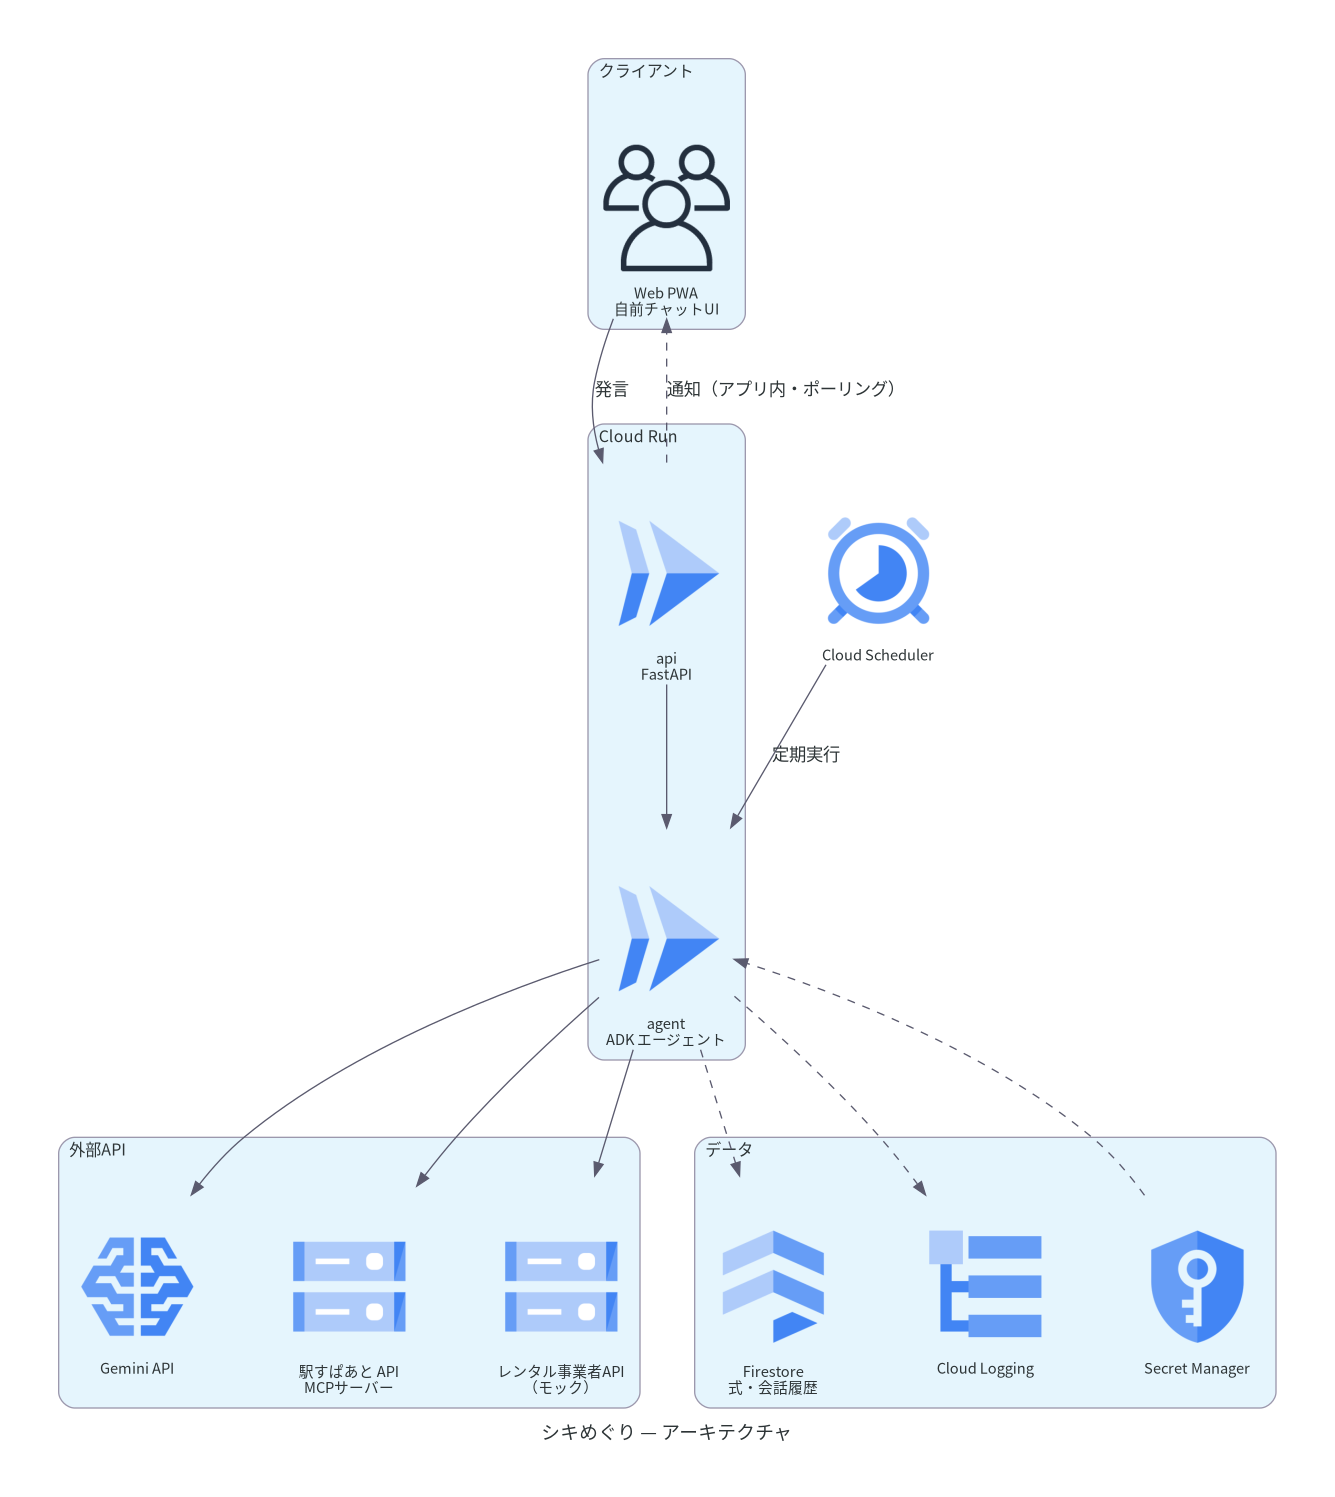
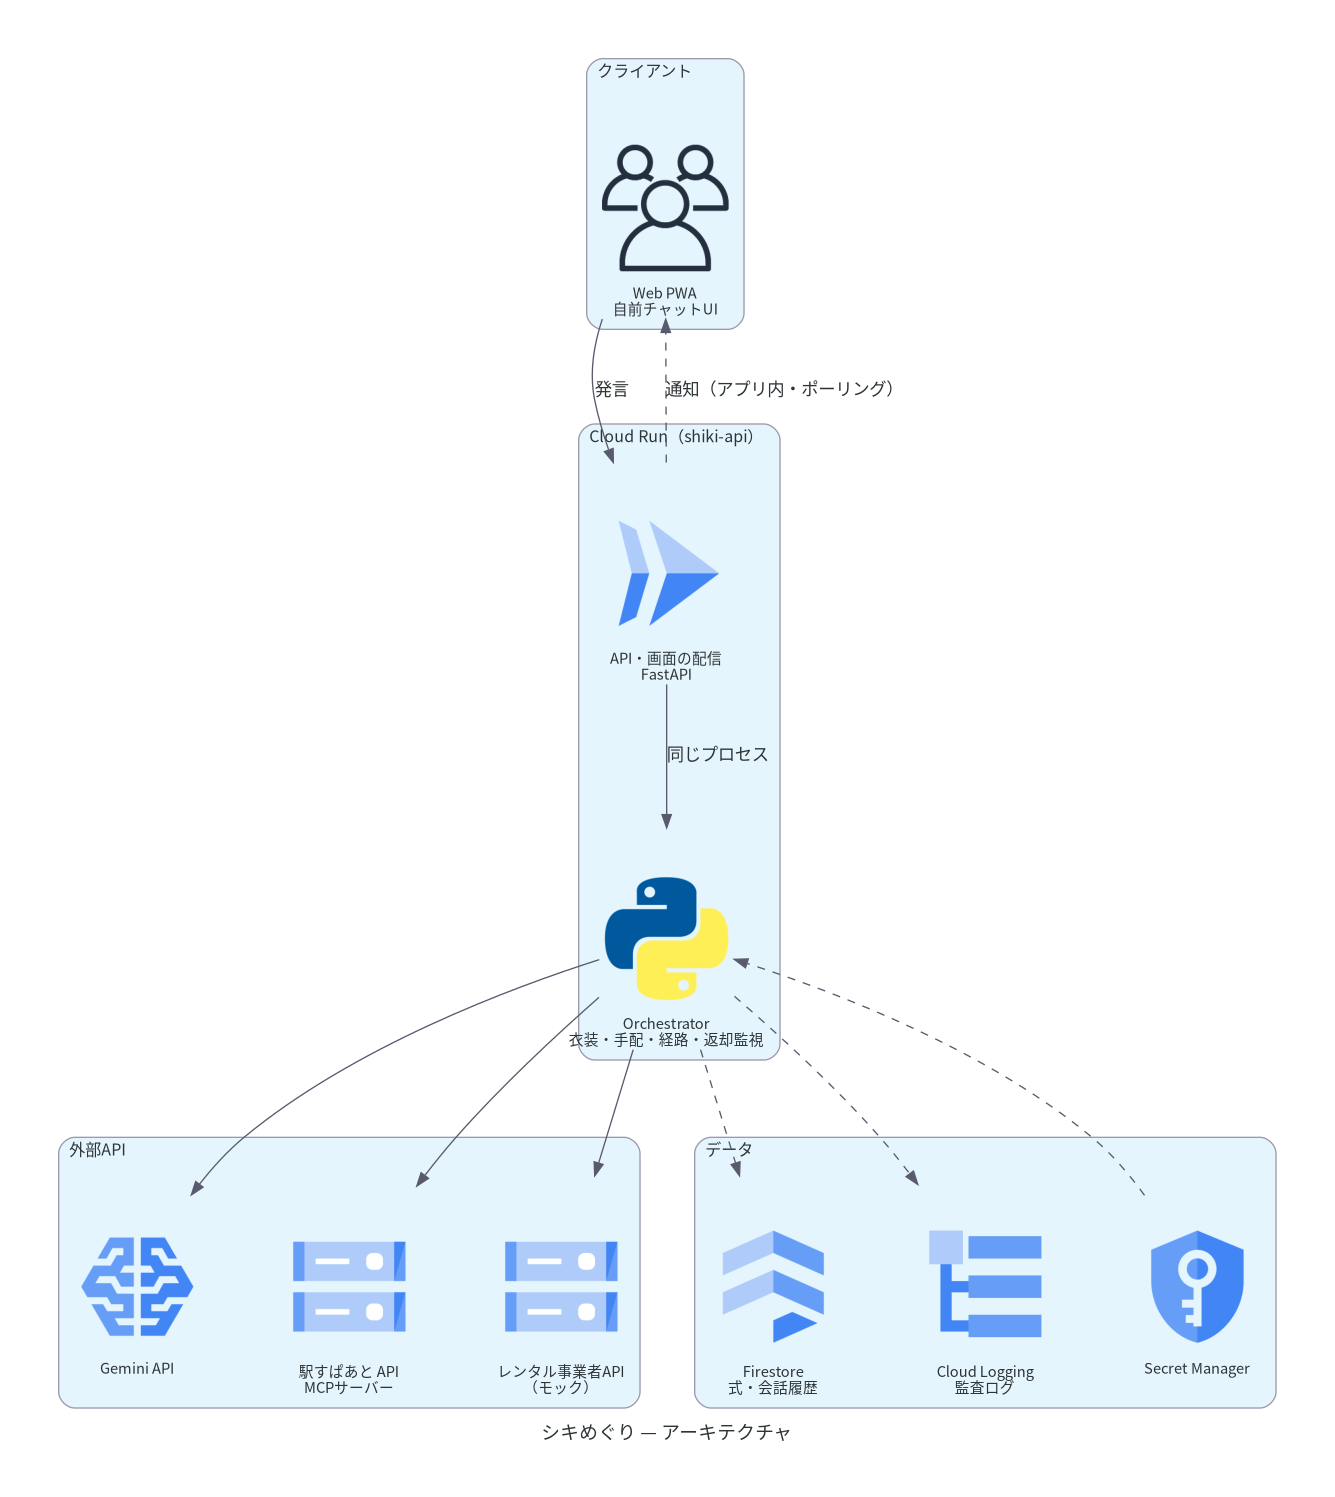
feat: アーキテクチャ図を更新し、Cloud Run の構成を明確化

diff --git a/docs/architecture.py b/docs/architecture.py
@@ -10,12 +10,12 @@
 from diagrams import Cluster, Diagram, Edge
 from diagrams.gcp.compute import Run
 from diagrams.gcp.database import Firestore
-from diagrams.gcp.devtools import Scheduler
 from diagrams.gcp.ml import AIPlatform
 from diagrams.gcp.operations import Logging
 from diagrams.gcp.security import KeyManagementService
 from diagrams.gcp.storage import Storage
 from diagrams.onprem.client import Users
+from diagrams.programming.language import Python
 
 FONT = "Noto Sans CJK JP"
 
@@ -50,11 +50,11 @@ with Diagram(
     with Cluster("クライアント", graph_attr=cluster_attr):
         client = Users("Web PWA\n自前チャットUI")
 
-    with Cluster("Cloud Run", graph_attr=cluster_attr):
-        api = Run("api\nFastAPI")
-        agent = Run("agent\nADK エージェント")
-
-    scheduler = Scheduler("Cloud Scheduler")
+    # 本番は api と agent を分けず、1 つのサービスの同じプロセスで動かす
+    # （AGENT_TRANSPORT=inproc）。分ける構成は開発用に残してあるだけなので描かない。
+    with Cluster("Cloud Run（shiki-api）", graph_attr=cluster_attr):
+        api = Run("API・画面の配信\nFastAPI")
+        agent = Python("Orchestrator\n衣装・手配・経路・返却監視")
 
     with Cluster("外部API", graph_attr=cluster_attr):
         externals = [
@@ -65,13 +65,12 @@ with Diagram(
 
     with Cluster("データ", graph_attr=cluster_attr):
         firestore = Firestore("Firestore\n式・会話履歴")
-        logging = Logging("Cloud Logging")
+        logging = Logging("Cloud Logging\n監査ログ")
         secrets = KeyManagementService("Secret Manager")
 
-    client >> Edge(label="発言") >> api >> agent
+    client >> Edge(label="発言") >> api >> Edge(label="同じプロセス") >> agent
     # 端末へのプッシュは使わず、エージェント起点の通知も画面が取りに来る。
     api >> Edge(label="通知（アプリ内・ポーリング）", style="dashed") >> client
-    scheduler >> Edge(label="定期実行") >> agent
     agent >> externals
     agent >> Edge(style="dashed") >> [firestore, logging]
     secrets >> Edge(style="dashed") >> agent
